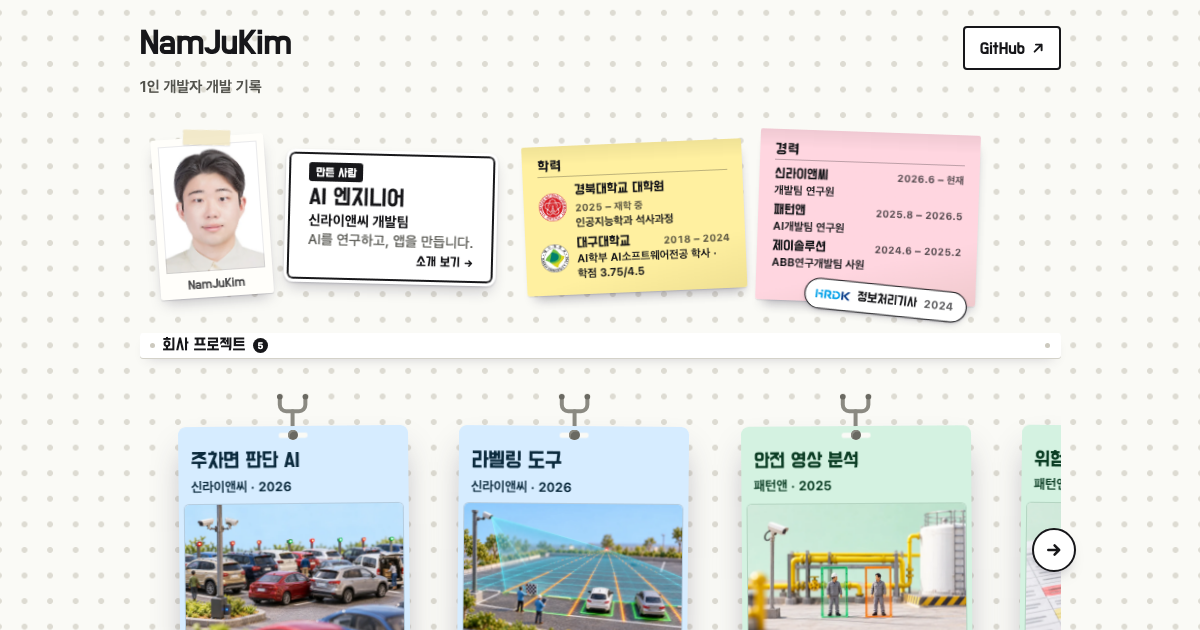
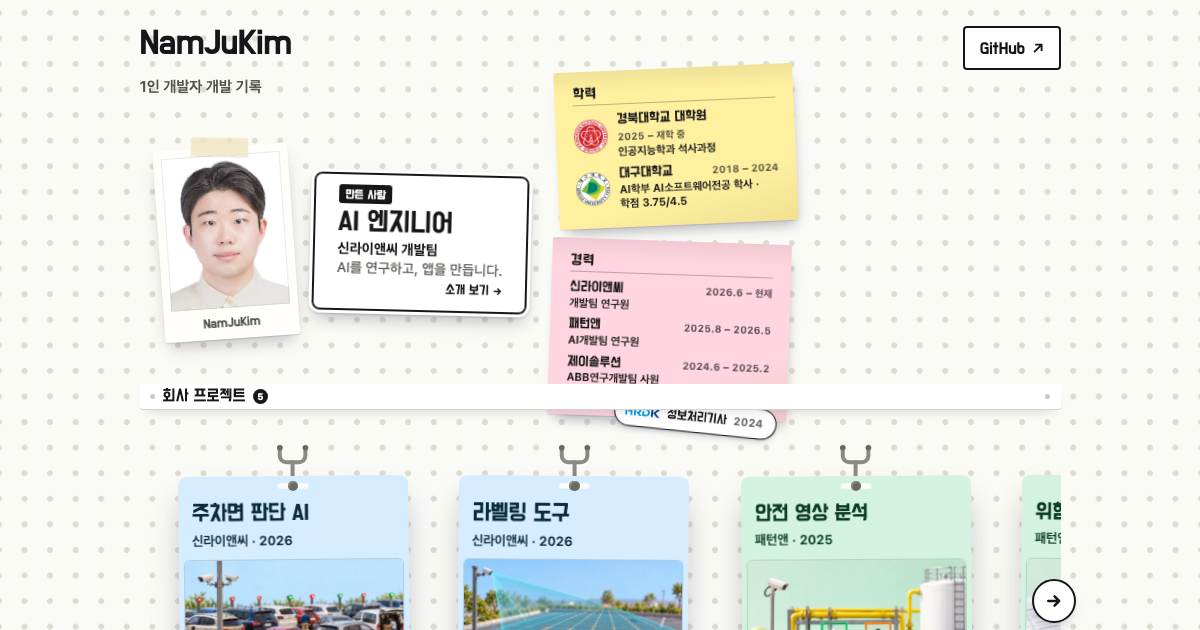
진열대 물건과 스티커를 회사 프로젝트 카드 비에 맞춤
물건(봉지·카드)
- 진열대의 물건을 모두 같은 비(넓은 화면 0.7, 폰 1.2)로 건다. 기준은 회사 프로젝트 그림 카드(9칸, 폰 16칸).
- 앱 봉지 5칸 → 7칸(폰 10 → 12칸). 가나디야·Scorelab 도 같은 크기다.
- 도구 카드도 그림 카드로: 카드 폭은 회사 프로젝트와 같고, 화면 그림은 원래 비율(가로로 긴) 그대로 둔다.
  그림 카드의 그림 높이를 그림마다의 비율(imageSize)로 계산한다.
- 폰에서 줄 끝 칸의 오른쪽 여백을 2칸으로. 커진 봉지의 둥근 딱지가 칸 밖으로 나가
  끝까지 밀면 고리가 구멍에서 2px 비키던 것을 막는다(이제 0.5px 안).

스티커 묶음
- 묶음 안의 크기를 벽 칸 × 묶음 비(--mk)로: 1.2배(936~1199px 는 한 줄에 들어가는 1.15배).
  포스트잇은 조금 좁게(8.6 → 7.8칸), 사이는 0.9 → 0.75칸.
- 묶음 높이는 화면 폭마다 스티커가 들어가는 가장 낮은 칸 수: 넓은 화면 9, 태블릿 15, 폰 18~27칸
  (320~735px 를 잘게 나눠 쟀다). 높이는 늘 벽 칸의 정수배라 아래 줄 고리 맞춤은 그대로다.

og.png 를 다시 찍었다.

diff --git a/index.html b/index.html
@@ -51,7 +51,7 @@
 <h2 class="aisle__name" id="a-work">회사 프로젝트 <span class="aisle__count">5</span></h2>
 <div class="line" style="--h:15;--nh:24;--lead:1.5;--tlead:1.5">
 <ul class="hooks">
-<li class="peg" style="--w:9;--s:0.65;--nw:16;--ns:1.2;--pi:8.764;--npi:8.422">
+<li class="peg" style="--w:9;--s:0.7;--nw:16;--ns:1.2;--ar:1.5000;--pi:8.105;--npi:8.422">
   <svg class="hook" viewBox="0 0 64 80" fill="none" stroke="#8b8a82" stroke-width="5" stroke-linecap="round" aria-hidden="true" focusable="false"><path d="M16 16v10a8 8 0 0 0 8 8h16a8 8 0 0 0 8-8V16"/><path d="M32 34v30"/><circle cx="16" cy="16" r="3.5" fill="#6a6962" stroke="none"/><circle cx="48" cy="16" r="3.5" fill="#6a6962" stroke="none"/></svg>
   <article class="pack pack--card pack--mini pack--photo" data-sway style="--rest:-0.6deg;--tone:#d6ecff;--tone-ink:#0b2a3d;--accent:#0b2a3d;--mark-size:1.3">
     <div class="card">
@@ -69,7 +69,7 @@
   </article>
   <span class="hook-tip" aria-hidden="true"></span>
 </li>
-<li class="peg" style="--w:9;--s:0.65;--nw:16;--ns:1.2;--pi:8.764;--npi:8.422">
+<li class="peg" style="--w:9;--s:0.7;--nw:16;--ns:1.2;--ar:1.5000;--pi:8.105;--npi:8.422">
   <svg class="hook" viewBox="0 0 64 80" fill="none" stroke="#8b8a82" stroke-width="5" stroke-linecap="round" aria-hidden="true" focusable="false"><path d="M16 16v10a8 8 0 0 0 8 8h16a8 8 0 0 0 8-8V16"/><path d="M32 34v30"/><circle cx="16" cy="16" r="3.5" fill="#6a6962" stroke="none"/><circle cx="48" cy="16" r="3.5" fill="#6a6962" stroke="none"/></svg>
   <article class="pack pack--card pack--mini pack--photo" data-sway style="--rest:0.5deg;--tone:#d6ecff;--tone-ink:#0b2a3d;--accent:#0b2a3d;--mark-size:1.35">
     <div class="card">
@@ -87,7 +87,7 @@
   </article>
   <span class="hook-tip" aria-hidden="true"></span>
 </li>
-<li class="peg" style="--w:9;--s:0.65;--nw:16;--ns:1.2;--pi:8.764;--npi:8.422">
+<li class="peg" style="--w:9;--s:0.7;--nw:16;--ns:1.2;--ar:1.5000;--pi:8.105;--npi:8.422">
   <svg class="hook" viewBox="0 0 64 80" fill="none" stroke="#8b8a82" stroke-width="5" stroke-linecap="round" aria-hidden="true" focusable="false"><path d="M16 16v10a8 8 0 0 0 8 8h16a8 8 0 0 0 8-8V16"/><path d="M32 34v30"/><circle cx="16" cy="16" r="3.5" fill="#6a6962" stroke="none"/><circle cx="48" cy="16" r="3.5" fill="#6a6962" stroke="none"/></svg>
   <article class="pack pack--card pack--mini pack--photo" data-sway style="--rest:-0.4deg;--tone:#d4f2e1;--tone-ink:#0b3d24;--accent:#0b3d24;--mark-size:1.25">
     <div class="card">
@@ -105,7 +105,7 @@
   </article>
   <span class="hook-tip" aria-hidden="true"></span>
 </li>
-<li class="peg" style="--w:9;--s:0.65;--nw:16;--ns:1.2;--pi:8.764;--npi:8.422">
+<li class="peg" style="--w:9;--s:0.7;--nw:16;--ns:1.2;--ar:1.5000;--pi:8.105;--npi:8.422">
   <svg class="hook" viewBox="0 0 64 80" fill="none" stroke="#8b8a82" stroke-width="5" stroke-linecap="round" aria-hidden="true" focusable="false"><path d="M16 16v10a8 8 0 0 0 8 8h16a8 8 0 0 0 8-8V16"/><path d="M32 34v30"/><circle cx="16" cy="16" r="3.5" fill="#6a6962" stroke="none"/><circle cx="48" cy="16" r="3.5" fill="#6a6962" stroke="none"/></svg>
   <article class="pack pack--card pack--mini pack--photo" data-sway style="--rest:0.7deg;--tone:#d4f2e1;--tone-ink:#0b3d24;--accent:#0b3d24;--mark-size:1.25">
     <div class="card">
@@ -123,7 +123,7 @@
   </article>
   <span class="hook-tip" aria-hidden="true"></span>
 </li>
-<li class="peg" style="--w:9;--s:0.65;--nw:16;--ns:1.2;--pi:8.764;--npi:8.422">
+<li class="peg" style="--w:9;--s:0.7;--nw:16;--ns:1.2;--ar:1.5000;--pi:8.105;--npi:8.422">
   <svg class="hook" viewBox="0 0 64 80" fill="none" stroke="#8b8a82" stroke-width="5" stroke-linecap="round" aria-hidden="true" focusable="false"><path d="M16 16v10a8 8 0 0 0 8 8h16a8 8 0 0 0 8-8V16"/><path d="M32 34v30"/><circle cx="16" cy="16" r="3.5" fill="#6a6962" stroke="none"/><circle cx="48" cy="16" r="3.5" fill="#6a6962" stroke="none"/></svg>
   <article class="pack pack--card pack--mini pack--photo" data-sway style="--rest:-0.6deg;--tone:#ece7df;--tone-ink:#2d2a24;--accent:#2d2a24;--mark-size:1.15">
     <div class="card">
@@ -146,12 +146,12 @@
 </section>
 <section class="aisle aisle--bays aisle--personal" aria-labelledby="a-personal">
 <h2 class="vh" id="a-personal">개인 프로젝트</h2>
-<div class="line line--bays" data-name="개인 프로젝트" style="--h:12;--nh:20;--g:2;--tg:2;--ng:1">
+<div class="line line--bays" data-name="개인 프로젝트" style="--h:15;--nh:24;--g:2;--tg:2;--ng:1">
 <div class="hooks">
-<section class="bay bay--apps" style="--bw:21;--bo:1.5;--tbw:21;--tbo:1.5;--nbw:36;--nbo:1" aria-labelledby="a-apps">
+<section class="bay bay--apps" style="--bw:27;--bo:1.5;--tbw:27;--tbo:1.5;--nbw:42;--nbo:1" aria-labelledby="a-apps">
 <h3 class="aisle__name" id="a-apps"><small class="aisle__kicker" aria-hidden="true">개인 프로젝트</small>앱 <span class="aisle__count">3</span></h3>
 <ul class="bay__pegs">
-<li class="peg" style="--w:5;--s:0.5;--nw:10;--ns:1.0">
+<li class="peg" style="--w:7;--s:0.7;--nw:12;--ns:1.2">
   <svg class="hook" viewBox="0 0 64 80" fill="none" stroke="#8b8a82" stroke-width="5" stroke-linecap="round" aria-hidden="true" focusable="false"><path d="M16 16v10a8 8 0 0 0 8 8h16a8 8 0 0 0 8-8V16"/><path d="M32 34v30"/><circle cx="16" cy="16" r="3.5" fill="#6a6962" stroke="none"/><circle cx="48" cy="16" r="3.5" fill="#6a6962" stroke="none"/></svg>
   <article class="pack pack--card pack--pocketpet" data-sway style="--rest:-1.1deg;--tone:#ff6196;--tone-ink:#3d0a1e;--accent:#d0255e;--mark:'Mark PocketPet';--mark-weight:700;--mark-size:2.15;view-transition-name:pack-pocketpet">
     <div class="card">
@@ -170,7 +170,7 @@
   </article>
   <span class="hook-tip" aria-hidden="true"></span>
 </li>
-<li class="peg" style="--w:5;--s:0.5;--nw:10;--ns:1.0">
+<li class="peg" style="--w:7;--s:0.7;--nw:12;--ns:1.2">
   <svg class="hook" viewBox="0 0 64 80" fill="none" stroke="#8b8a82" stroke-width="5" stroke-linecap="round" aria-hidden="true" focusable="false"><path d="M16 16v10a8 8 0 0 0 8 8h16a8 8 0 0 0 8-8V16"/><path d="M32 34v30"/><circle cx="16" cy="16" r="3.5" fill="#6a6962" stroke="none"/><circle cx="48" cy="16" r="3.5" fill="#6a6962" stroke="none"/></svg>
   <article class="pack pack--bag pack--mylittlecloset" data-sway style="--rest:0.7deg;--tone:#d9d2ff;--tone-ink:#1f1b4d;--accent:#1f1b4d;--bag:#f1eeff;--mark:'Mark Closet';--mark-weight:800;--mark-size:1.9;view-transition-name:pack-mylittlecloset">
     <div class="card">
@@ -188,7 +188,7 @@
   </article>
   <span class="hook-tip" aria-hidden="true"></span>
 </li>
-<li class="peg" style="--w:5;--s:0.5;--nw:10;--ns:1.0">
+<li class="peg" style="--w:7;--s:0.7;--nw:12;--ns:1.2">
   <svg class="hook" viewBox="0 0 64 80" fill="none" stroke="#8b8a82" stroke-width="5" stroke-linecap="round" aria-hidden="true" focusable="false"><path d="M16 16v10a8 8 0 0 0 8 8h16a8 8 0 0 0 8-8V16"/><path d="M32 34v30"/><circle cx="16" cy="16" r="3.5" fill="#6a6962" stroke="none"/><circle cx="48" cy="16" r="3.5" fill="#6a6962" stroke="none"/></svg>
   <article class="pack pack--bag pack--moacam" data-sway style="--rest:-0.5deg;--tone:#ffd60a;--tone-ink:#141414;--accent:#c80d25;--bag:#ffffff;--mark:'Mark Moacam';--mark-weight:400;--mark-size:2.5;--mark-tracking:0;view-transition-name:pack-moacam">
     <div class="card">
@@ -208,12 +208,12 @@
 </li>
 </ul>
 </section>
-<section class="bay bay--tools" style="--bw:28;--bo:0.5;--tbw:28;--tbo:0.5;--nbw:40;--nbo:1" aria-labelledby="a-tools">
+<section class="bay bay--tools" style="--bw:44;--bo:0.5;--tbw:44;--tbo:0.5;--nbw:73;--nbo:1" aria-labelledby="a-tools">
 <h3 class="aisle__name" id="a-tools"><small class="aisle__kicker" aria-hidden="true">개인 프로젝트</small>도구 <span class="aisle__count">4</span></h3>
 <ul class="bay__pegs">
-<li class="peg" style="--w:5;--s:0.65;--nw:8;--ns:1.2">
+<li class="peg" style="--w:9;--s:0.7;--nw:16;--ns:1.2;--ar:1.8987;--pi:6.403;--npi:6.654">
   <svg class="hook" viewBox="0 0 64 80" fill="none" stroke="#8b8a82" stroke-width="5" stroke-linecap="round" aria-hidden="true" focusable="false"><path d="M16 16v10a8 8 0 0 0 8 8h16a8 8 0 0 0 8-8V16"/><path d="M32 34v30"/><circle cx="16" cy="16" r="3.5" fill="#6a6962" stroke="none"/><circle cx="48" cy="16" r="3.5" fill="#6a6962" stroke="none"/></svg>
-  <article class="pack pack--card pack--mini" data-sway style="--rest:-0.9deg;--tone:#f5f4ef;--tone-ink:#17171a;--accent:#17171a;--mark-size:1.05">
+  <article class="pack pack--card pack--mini pack--photo" data-sway style="--rest:-0.9deg;--tone:#f5f4ef;--tone-ink:#17171a;--accent:#17171a;--mark-size:1.05">
     <div class="card">
       <h4 class="card__name"><a class="pack__link" href="https://github.com/zoo3323/paper-summary">paper-summary</a></h4>
       <p class="card__line">Claude Code 플러그인</p>
@@ -229,15 +229,15 @@
   </article>
   <span class="hook-tip" aria-hidden="true"></span>
 </li>
-<li class="peg" style="--w:5;--s:0.65;--nw:8;--ns:1.2">
+<li class="peg" style="--w:9;--s:0.7;--nw:16;--ns:1.2;--ar:1.9499;--pi:6.235;--npi:6.479">
   <svg class="hook" viewBox="0 0 64 80" fill="none" stroke="#8b8a82" stroke-width="5" stroke-linecap="round" aria-hidden="true" focusable="false"><path d="M16 16v10a8 8 0 0 0 8 8h16a8 8 0 0 0 8-8V16"/><path d="M32 34v30"/><circle cx="16" cy="16" r="3.5" fill="#6a6962" stroke="none"/><circle cx="48" cy="16" r="3.5" fill="#6a6962" stroke="none"/></svg>
-  <article class="pack pack--card pack--mini" data-sway style="--rest:0.7deg;--tone:#f5f4ef;--tone-ink:#17171a;--accent:#17171a;--mark-size:1.6">
+  <article class="pack pack--card pack--mini pack--photo" data-sway style="--rest:0.7deg;--tone:#f5f4ef;--tone-ink:#17171a;--accent:#17171a;--mark-size:1.6">
     <div class="card">
       <h4 class="card__name"><a class="pack__link" href="https://github.com/zoo3323/ezet">ezet</a></h4>
       <p class="card__line">Bash · Homebrew</p>
     </div>
     <div class="bag">
-      <div class="mini__art"><img src="/assets/img/tools/ezet.svg" width="600" height="316" alt="" loading="lazy"></div>
+      <div class="mini__art"><img src="/assets/img/tools/ezet.svg" width="817" height="419" alt="" loading="lazy"></div>
       <p class="mini__line">SSH 너머 tmux 세션을 골라 접속</p>
       <span class="mini__go" aria-hidden="true">GitHub <svg viewBox="0 0 14 14" fill="none" stroke="currentColor" stroke-width="2.2" stroke-linecap="round" stroke-linejoin="round" aria-hidden="true" focusable="false"><path d="M3 11 11 3M4.5 3H11v6.5"/></svg></span>
     </div>
@@ -247,9 +247,9 @@
   </article>
   <span class="hook-tip" aria-hidden="true"></span>
 </li>
-<li class="peg" style="--w:5;--s:0.65;--nw:8;--ns:1.2">
+<li class="peg" style="--w:9;--s:0.7;--nw:16;--ns:1.2;--ar:1.8987;--pi:6.403;--npi:6.654">
   <svg class="hook" viewBox="0 0 64 80" fill="none" stroke="#8b8a82" stroke-width="5" stroke-linecap="round" aria-hidden="true" focusable="false"><path d="M16 16v10a8 8 0 0 0 8 8h16a8 8 0 0 0 8-8V16"/><path d="M32 34v30"/><circle cx="16" cy="16" r="3.5" fill="#6a6962" stroke="none"/><circle cx="48" cy="16" r="3.5" fill="#6a6962" stroke="none"/></svg>
-  <article class="pack pack--card pack--mini" data-sway style="--rest:-0.5deg;--tone:#f5f4ef;--tone-ink:#17171a;--accent:#17171a;--mark-size:0.86">
+  <article class="pack pack--card pack--mini pack--photo" data-sway style="--rest:-0.5deg;--tone:#f5f4ef;--tone-ink:#17171a;--accent:#17171a;--mark-size:0.86">
     <div class="card">
       <h4 class="card__name"><a class="pack__link" href="https://github.com/zoo3323/audioswitch">audioswitch</a></h4>
       <p class="card__line">C# · Windows</p>
@@ -265,9 +265,9 @@
   </article>
   <span class="hook-tip" aria-hidden="true"></span>
 </li>
-<li class="peg" style="--w:5;--s:0.65;--nw:8;--ns:1.2">
+<li class="peg" style="--w:9;--s:0.7;--nw:16;--ns:1.2;--ar:1.8987;--pi:6.403;--npi:6.654">
   <svg class="hook" viewBox="0 0 64 80" fill="none" stroke="#8b8a82" stroke-width="5" stroke-linecap="round" aria-hidden="true" focusable="false"><path d="M16 16v10a8 8 0 0 0 8 8h16a8 8 0 0 0 8-8V16"/><path d="M32 34v30"/><circle cx="16" cy="16" r="3.5" fill="#6a6962" stroke="none"/><circle cx="48" cy="16" r="3.5" fill="#6a6962" stroke="none"/></svg>
-  <article class="pack pack--card pack--mini" data-sway style="--rest:0.9deg;--tone:#f5f4ef;--tone-ink:#17171a;--accent:#17171a;--mark-size:0.95">
+  <article class="pack pack--card pack--mini pack--photo" data-sway style="--rest:0.9deg;--tone:#f5f4ef;--tone-ink:#17171a;--accent:#17171a;--mark-size:0.95">
     <div class="card">
       <h4 class="card__name"><a class="pack__link" href="https://github.com/zoo3323/usage-statusline">usage-statusline</a></h4>
       <p class="card__line">Claude Code 플러그인</p>
@@ -291,10 +291,10 @@
 <div class="aisle aisle--bays aisle--research-startup">
 <div class="line line--bays" data-name="연구·논문, 대회·창업" style="--h:15;--nh:24;--g:3;--tg:2;--ng:1">
 <div class="hooks">
-<section class="bay bay--research" style="--bw:14;--bo:2.5;--tbw:11;--tbo:1.5;--nbw:18;--nbo:1" aria-labelledby="a-research">
+<section class="bay bay--research" style="--bw:12;--bo:1.5;--tbw:11;--tbo:1.5;--nbw:18;--nbo:1" aria-labelledby="a-research">
 <h2 class="aisle__name" id="a-research">연구·논문 <span class="aisle__count">1</span></h2>
 <ul class="bay__pegs">
-<li class="peg" style="--w:9;--s:0.65;--nw:16;--ns:1.2;--pi:8.764;--npi:8.422">
+<li class="peg" style="--w:9;--s:0.7;--nw:16;--ns:1.2;--ar:1.5000;--pi:8.105;--npi:8.422">
   <svg class="hook" viewBox="0 0 64 80" fill="none" stroke="#8b8a82" stroke-width="5" stroke-linecap="round" aria-hidden="true" focusable="false"><path d="M16 16v10a8 8 0 0 0 8 8h16a8 8 0 0 0 8-8V16"/><path d="M32 34v30"/><circle cx="16" cy="16" r="3.5" fill="#6a6962" stroke="none"/><circle cx="48" cy="16" r="3.5" fill="#6a6962" stroke="none"/></svg>
   <article class="pack pack--card pack--mini pack--photo" data-sway style="--rest:-0.5deg;--tone:#ffffff;--tone-ink:#7a1018;--accent:#7a1018;--mark-size:1.0">
     <div class="card">
@@ -314,11 +314,11 @@
 </li>
 </ul>
 </section>
-<section class="bay bay--startup" style="--bw:19;--bo:3.5;--tbw:14;--tbo:0.5;--nbw:24;--nbo:1" aria-labelledby="a-startup">
+<section class="bay bay--startup" style="--bw:21;--bo:2.5;--tbw:18;--tbo:0.5;--nbw:29;--nbo:1" aria-labelledby="a-startup">
 <h2 class="aisle__name" id="a-startup">대회·창업 <span class="aisle__count">2</span></h2>
 <a class="pop" href="/about/#h-startup"><b>모두의 창업</b><span>1기 · 2기</span></a>
 <ul class="bay__pegs">
-<li class="peg" style="--w:5;--s:0.5;--nw:10;--ns:1.0">
+<li class="peg" style="--w:7;--s:0.7;--nw:12;--ns:1.2">
   <svg class="hook" viewBox="0 0 64 80" fill="none" stroke="#8b8a82" stroke-width="5" stroke-linecap="round" aria-hidden="true" focusable="false"><path d="M16 16v10a8 8 0 0 0 8 8h16a8 8 0 0 0 8-8V16"/><path d="M32 34v30"/><circle cx="16" cy="16" r="3.5" fill="#6a6962" stroke="none"/><circle cx="48" cy="16" r="3.5" fill="#6a6962" stroke="none"/></svg>
   <article class="pack pack--card pack--ganadiya" data-sway style="--rest:-0.9deg;--tone:#ffd9c2;--tone-ink:#3a1606;--accent:#a8431a;--mark-size:2.23;view-transition-name:pack-ganadiya">
     <div class="card">
@@ -336,7 +336,7 @@
   </article>
   <span class="hook-tip" aria-hidden="true"></span>
 </li>
-<li class="peg" style="--w:5;--s:0.5;--nw:10;--ns:1.0">
+<li class="peg" style="--w:7;--s:0.7;--nw:12;--ns:1.2">
   <svg class="hook" viewBox="0 0 64 80" fill="none" stroke="#8b8a82" stroke-width="5" stroke-linecap="round" aria-hidden="true" focusable="false"><path d="M16 16v10a8 8 0 0 0 8 8h16a8 8 0 0 0 8-8V16"/><path d="M32 34v30"/><circle cx="16" cy="16" r="3.5" fill="#6a6962" stroke="none"/><circle cx="48" cy="16" r="3.5" fill="#6a6962" stroke="none"/></svg>
   <article class="pack pack--bag pack--scorelab" data-sway style="--rest:0.9deg;--tone:#a3e635;--tone-ink:#1a2e05;--accent:#3f6212;--bag:#ffffff;--mark:'Mark Scorelab';--mark-weight:700;--mark-size:1.85;--mark-tracking:-0.01em;view-transition-name:pack-scorelab">
     <div class="card">

diff --git a/assets/site.css b/assets/site.css
@@ -278,13 +278,23 @@ a {
    사진 스티커, 이름표, 학력·자격 딱지. 모두 흰 테두리로 오려 낸 스티커처럼 붙인다.
    아래 칸의 고리가 구멍에 맞도록 묶음의 높이는 구멍 간격의 정수배다. */
 
+/* 묶음 안의 길이 단위(--P)는 벽 칸(--p)에 묶음 비(--mk)를 곱한 것이다. 진열대의 카드(물건 비 0.7)에 맞춰 스티커도
+   1.2배로 키운다. 넓은 화면 1200px 아래는 한 줄에 들어가는 1.15배다. 묶음의 높이와 아래 여백은 벽 칸의 정수배라
+   아래 줄의 고리가 구멍에 서고, 높이는 화면 폭마다 스티커가 들어가는 칸 수로 잡았다(여러 폭에서 잼). */
 .maker {
+  --mk: 1.15;
+  --P: calc(var(--p) * var(--mk));
   display: flex;
   align-items: center;
-  gap: calc(var(--P) * 0.9);
-  height: calc(var(--P) * 7);
-  margin: 0 0 var(--P);
+  gap: calc(var(--P) * 0.75);
+  height: calc(var(--p) * 9);
+  margin: 0 0 var(--p);
   padding: 0 calc(var(--P) * 0.4);
+}
+@media (min-width: 1200px) {
+  .maker {
+    --mk: 1.2;
+  }
 }
 .maker__card,
 .pop {
@@ -469,7 +479,7 @@ a {
 .note {
   display: grid;
   align-content: start;
-  width: calc(var(--P) * 8.6);
+  width: calc(var(--P) * 7.8);
   padding: calc(var(--P) * 0.5) calc(var(--P) * 0.6) calc(var(--P) * 0.55);
   color: var(--ink);
   background:
@@ -1262,7 +1272,7 @@ a {
 }
 .pack--photo .mini__art {
   margin: calc(var(--p) * 0.15) calc(var(--p) * 0.35) 0;
-  aspect-ratio: 3 / 2;
+  aspect-ratio: var(--ar, 1.5);
   border-radius: calc(var(--p) * 0.26);
 }
 .pack--photo .mini__line {
@@ -2589,8 +2599,9 @@ svg.app-icon {
       "photo card"
       "stickers stickers";
     align-content: center;
+    --mk: 1.2;
     gap: calc(var(--P) * 0.7) calc(var(--P) * 0.8);
-    height: calc(var(--P) * 12);
+    height: calc(var(--p) * 15);
     padding: 0;
   }
   .maker__photo {
@@ -2625,18 +2636,39 @@ svg.app-icon {
 }
 @media (max-width: 735px) {
   .maker {
-    height: calc(var(--P) * 18);
+    height: calc(var(--p) * 18);
   }
 }
-/* 아주 좁은 폰은 포스트잇 글이 더 줄바뀜하므로 묶음을 몇 칸 더 높게(칸의 정수배라 고리 맞춤은 그대로) */
+/* 좁은 폰은 포스트잇 글씨가 px 하한에 걸려 더 줄바뀜하므로 묶음을 몇 칸 더 높게(칸의 정수배라 고리 맞춤은 그대로).
+   폭마다 스티커가 들어가는 가장 낮은 칸 수다(320~735px 를 잘게 나눠 잼). */
+@media (max-width: 519px) {
+  .maker {
+    height: calc(var(--p) * 19);
+  }
+}
+@media (max-width: 479px) {
+  .maker {
+    height: calc(var(--p) * 20);
+  }
+}
+@media (max-width: 399px) {
+  .maker {
+    height: calc(var(--p) * 22);
+  }
+}
 @media (max-width: 380px) {
   .maker {
-    height: calc(var(--P) * 22);
+    height: calc(var(--p) * 24);
+  }
+}
+@media (max-width: 359px) {
+  .maker {
+    height: calc(var(--p) * 26);
   }
 }
 @media (max-width: 340px) {
   .maker {
-    height: calc(var(--P) * 30);
+    height: calc(var(--p) * 27);
   }
 }
 @media (max-width: 735px) {

diff --git a/README.md b/README.md
@@ -74,18 +74,20 @@ python3 -m http.server 8765    # http://127.0.0.1:8765 에서 미리 보기
   - 넓게 걸 때는 `wide`
 - 줄 밀기와 크기
   - 마우스가 있는 화면에서는 넘치는 줄 양 끝에 화살표 단추가 나옵니다(`assets/aisle.js`).
-  - 크기는 `build.py`의 `SIZE`입니다. 넓은 화면은 한 화면에 줄이 두 줄쯤 보이게 큰 봉지 5칸, 작은 봉지 5칸, 넓은 작은 봉지 7칸입니다(폭이 홀수라 물건은 반 칸에서 시작합니다). 폰은 큰 봉지 10칸, 작은 봉지 8칸, 넓은 작은 봉지 12칸입니다. 그림 카드는 넓은 화면 9칸, 폰 16칸입니다. 물건 사이는 2칸입니다.
+  - 크기는 `build.py`의 `SIZE`입니다. 진열대의 물건은 모두 같은 비(넓은 화면 0.7, 폰 1.2)로 걸어서 봉지와 카드의 글씨 크기가 같습니다. 기준은 회사 프로젝트의 그림 카드(넓은 화면 9칸, 폰 16칸)이고, 앱 봉지는 같은 비로 7칸(폰 12칸)입니다. 넓은 화면의 폭은 홀수라 물건은 반 칸에서 시작합니다. 물건 사이는 2칸입니다.
 - 고리는 봉지 크기와 상관없이 벽의 크기입니다.
   - 물건은 줄 왼쪽에서 정수 칸만큼 떨어져 놓이고, 밀다가 물건의 시작에서 멈춥니다(scroll-snap). 그래서 멈추면 고리의 두 다리가 늘 구멍에 꽂힙니다.
   - 스티커 묶음의 높이도 구멍 간격의 정수배라서, 그 아래 칸의 고리가 구멍 자리에 섭니다.
+  - 스티커 묶음 안의 크기는 벽 칸에 묶음 비(`.maker`의 `--mk`)를 곱해 진열대 카드에 맞춥니다. 넓은 화면·태블릿·폰은 1.2배, 936~1199px는 한 줄에 들어가는 1.15배입니다. 묶음 높이는 화면 폭마다 스티커가 들어가는 가장 낮은 칸 수(넓은 화면 9칸, 태블릿 15칸, 폰 18~27칸)이고, 320~735px를 잘게 나눠 재서 정했습니다.
+  - 폰에서 줄 맨 끝 칸은 오른쪽에 2칸을 둡니다(`MODES["narrow"]["end"]`). 봉지 오른쪽 위의 둥근 딱지가 봉지 밖으로 나와 있어, 한 칸이면 끝까지 밀었을 때 고리가 구멍에서 비킵니다.
 
 ### 회사 프로젝트 자세히 보기(`/work/<이름>/`)
 
 - 내용은 `tool/about.json`의 `work`에 있습니다. 줄마다 `slug`(주소), `org`(이름), `unit`(회사), `period`, `role`, `summary`, `notes`, `did`(맡은 일), `stack`(쓴 기술)을 적습니다.
 - 진열대의 회사 프로젝트 봉지와 소개 페이지의 「자세히 보기」가 이 페이지로 이어집니다. 색과 도식은 진열대 봉지(`tool/shelf.json`)의 `tone`·`ink`·`art`를 따릅니다.
   - 봉지에 `image`(그림 주소)와 `imageSize`(가로·세로)를 적으면 도식 대신 그 그림이 봉지와 이 페이지 머리, 「다른 작업」 작은 그림에 나옵니다.
-  - `"photo": true`를 함께 적으면 그림 카드가 됩니다. 넓은 화면 9칸·폰 16칸으로 넓고, 그림을 카드 폭에 가깝게 3:2로 둡니다. 크기와 높이는 `build.py`의 `SIZE["photo"]`와 `PHOTO`이고, CSS(`.pack--photo`)가 같은 값으로 그립니다. 그림 아래 글은 글씨의 px 하한까지 셈해, 칸이 가장 작은 폭(넓은 화면 936px, 폰 320px)에서도 「보기」와 겹치지 않게 높이를 잡습니다.
-  - 지금은 회사 프로젝트 다섯과 논문 카드에 미니어처 디오라마 풍으로 만든 그림(`assets/img/work/<이름>/card.webp`, `assets/img/research/card.webp`, 900×600)을 씁니다.
+  - `"photo": true`를 함께 적으면 그림 카드가 됩니다. 넓은 화면 9칸·폰 16칸으로 넓고, 그림을 카드 폭에 가깝게 그림의 비율대로 둡니다(`imageSize`의 가로/세로). 크기와 높이는 `build.py`의 `SIZE["photo"]`와 `PHOTO`이고, CSS(`.pack--photo`)가 같은 값으로 그립니다. 그림 아래 글은 글씨의 px 하한까지 셈해, 칸이 가장 작은 폭(넓은 화면 936px, 폰 320px)에서도 「보기」와 겹치지 않게 높이를 잡습니다.
+  - 지금은 회사 프로젝트 다섯과 논문 카드에 미니어처 디오라마 풍으로 만든 그림(`assets/img/work/<이름>/card.webp`, `assets/img/research/card.webp`, 900×600, 3:2)을, 도구 네 개는 원래의 화면 그림(가로로 긴 비율)을 그림 카드에 넣습니다.
 - 이미지·영상은 `work[].media`에 `{"type": "image" 또는 "video", "src", "w", "h", "alt"}`로 적습니다(영상은 `poster`도). 적은 것이 있을 때만 「자료」 구역이 생깁니다. 파일은 `assets/img/work/<이름>/`에 둡니다.
   - `caption`은 그림 아래 짧은 설명입니다. 실제 자료가 없어 만든 그림은 `"generated": true`로 적으면 설명 옆에 「생성 이미지」 딱지가 붙습니다(그림 귀퉁이에도 「생성 이미지 · 예시」를 그려 둡니다).
   - 「자료」 줄의 그림은 비율이 달라도 높이가 같고, 폭은 그림 비율대로입니다.
